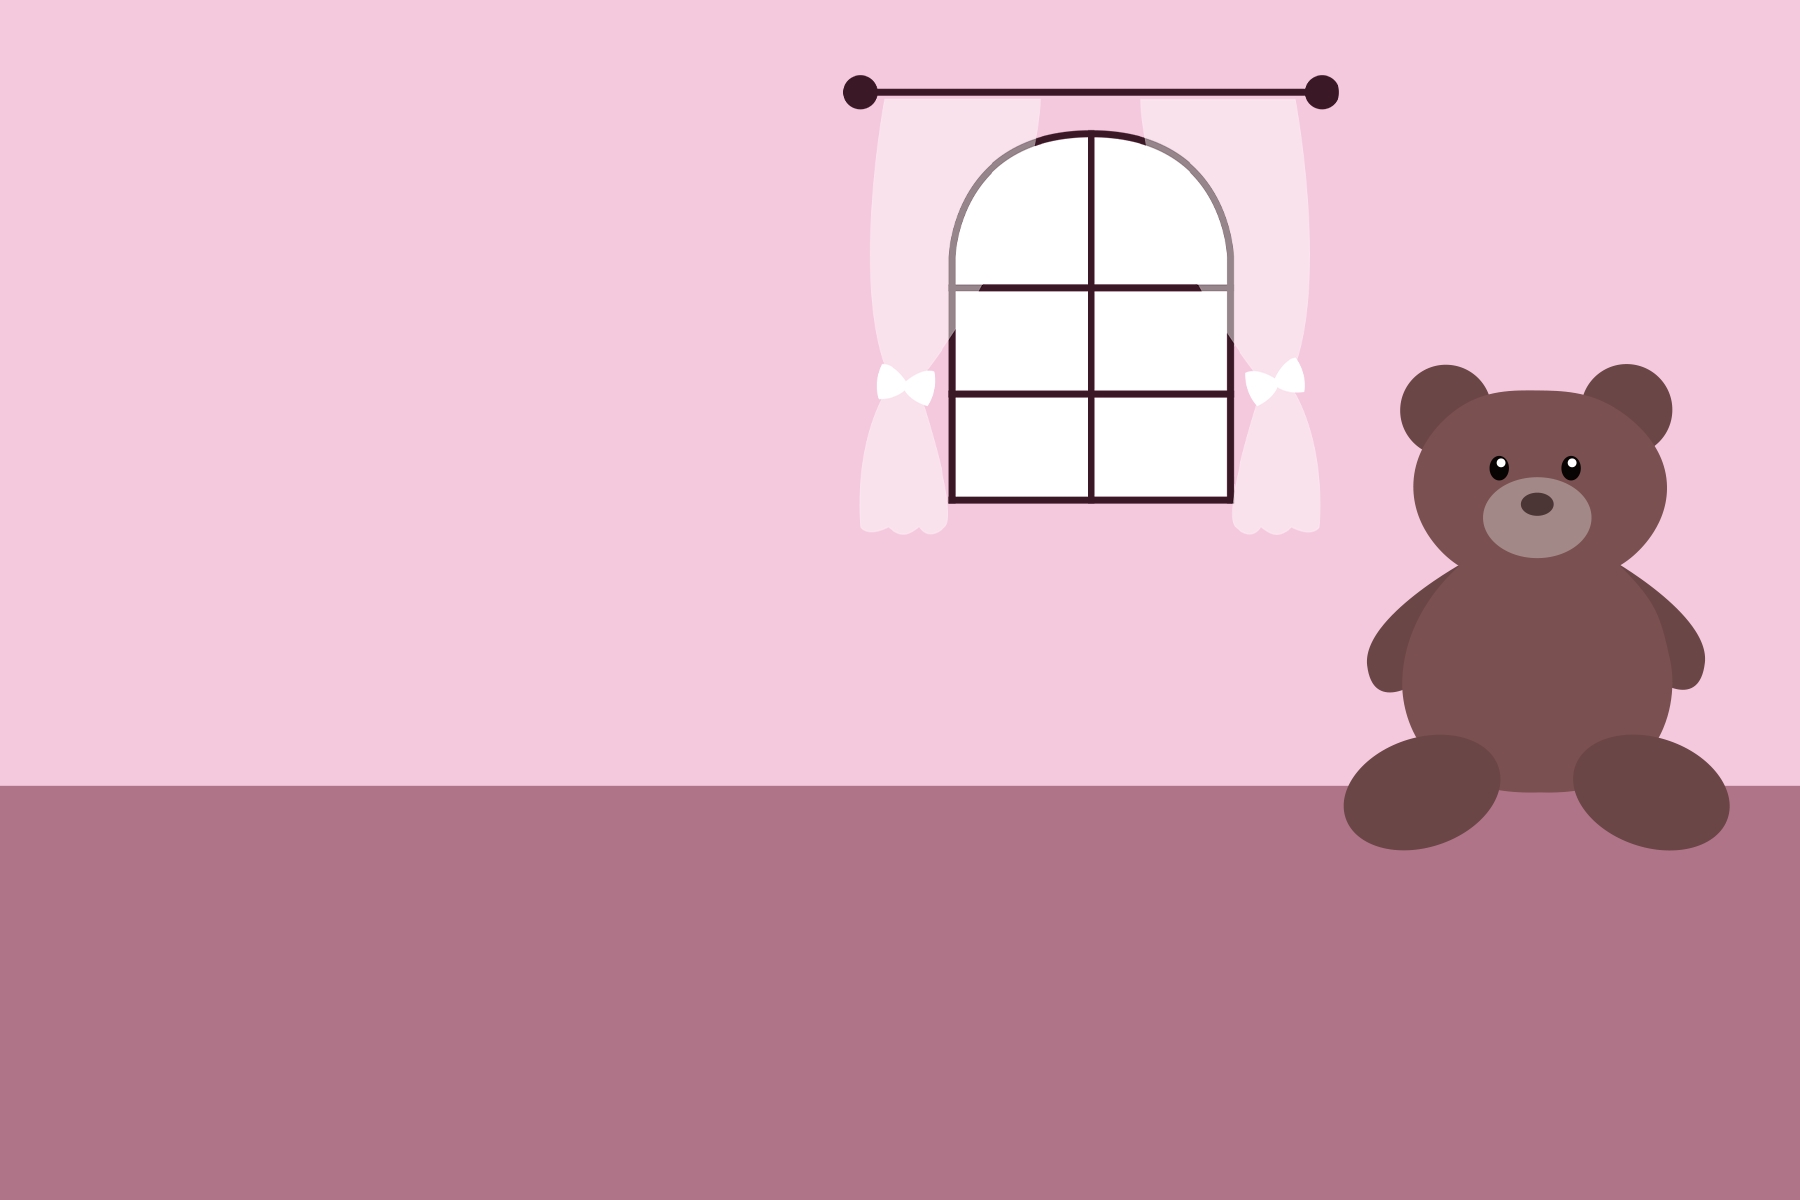
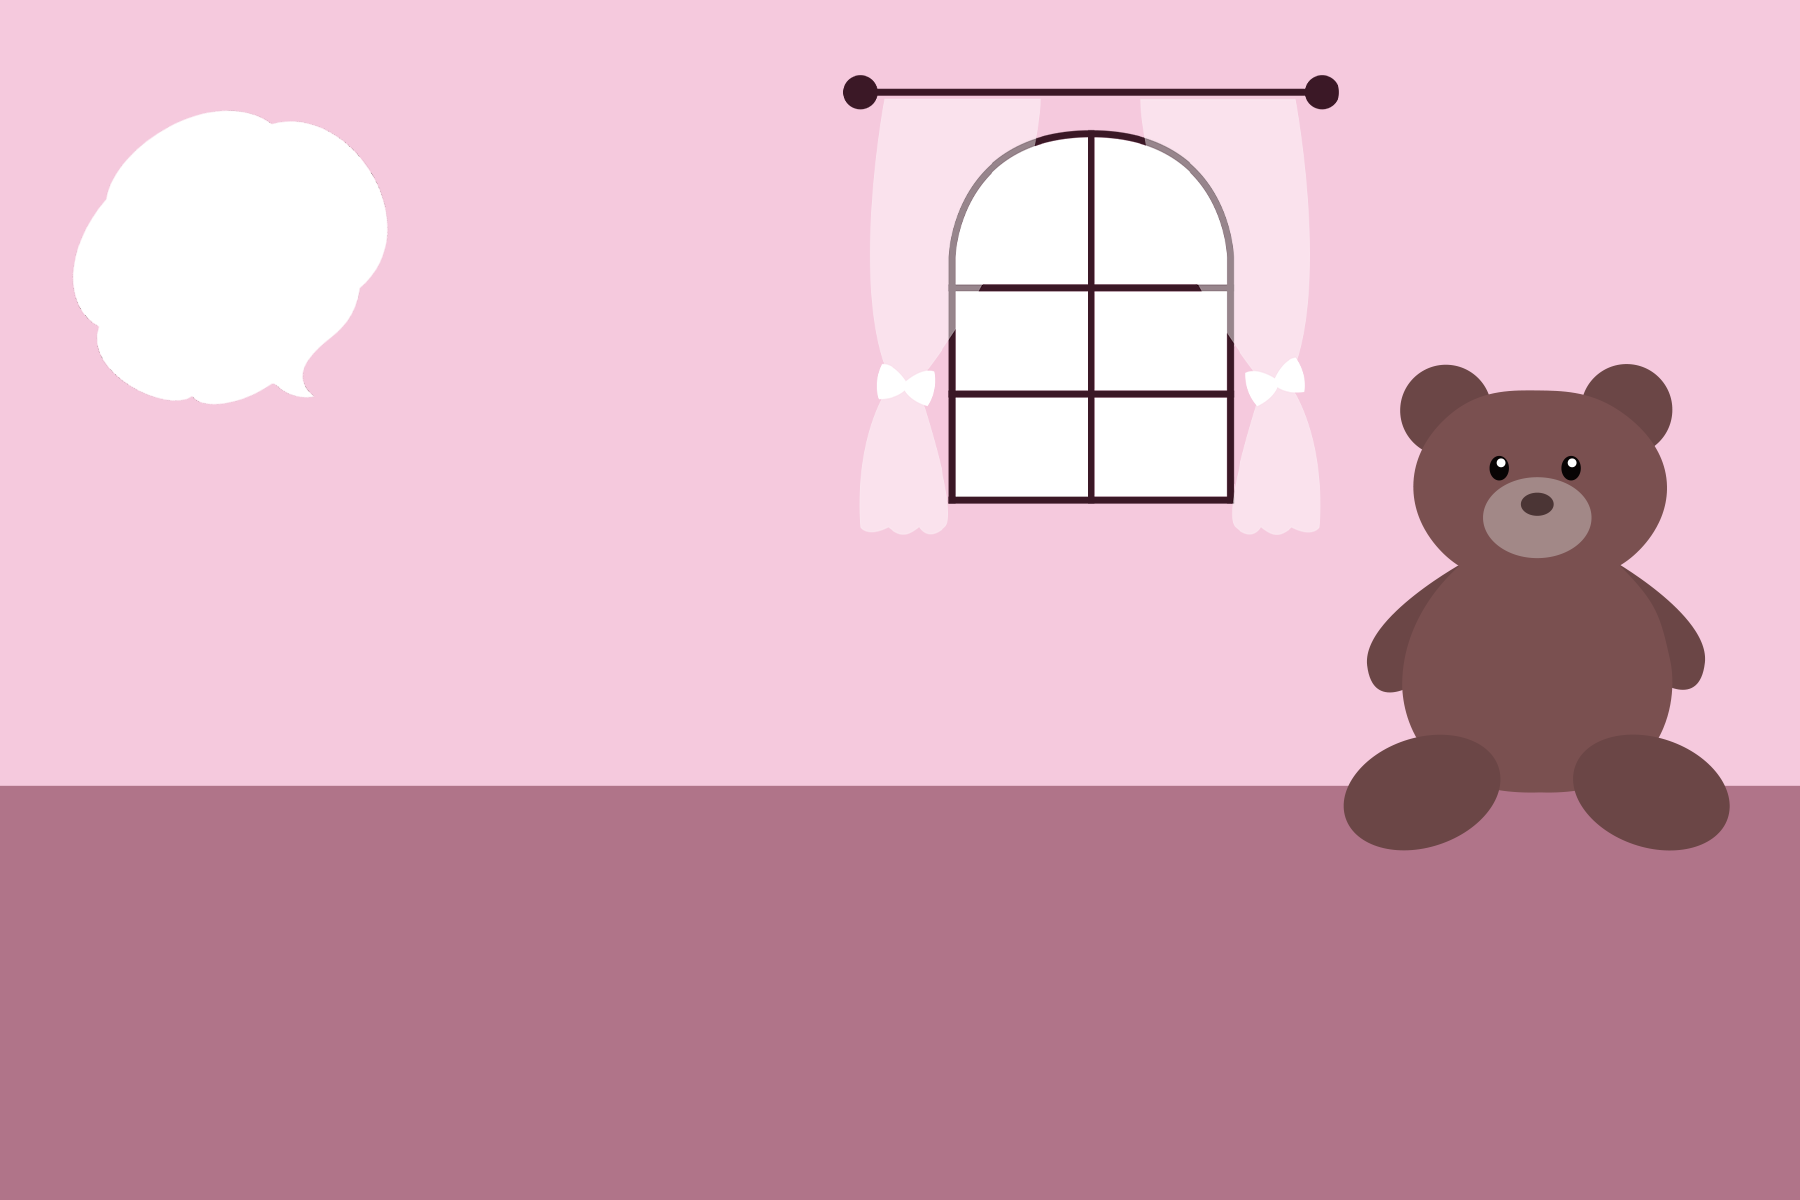
あいすせりふつけた

Changed region(s): [[0.0311, 0.0925, 0.2178, 0.3392]]

diff --git a/components/Serihu.vue b/components/Serihu.vue
@@ -10,13 +10,25 @@ import { mapActions, mapState } from 'vuex'
 export default {
     computed: {
         SERIHU() {
-            let main = this.weatherItem && this.weatherItem.weather[0].main
-            if(main === 'Clear') {
-                return '晴れだね'
-            } else if(main === 'Rain') {
-                return '雨だね'
+            let temp = Math.floor(this.weatherItem && this.weatherItem.main.temp)
+            if(temp > 35) {
+                return 'かき氷食べいこうね'
+            } else if(temp  > 30) {
+                return 'ガリガリ君梨味しか'
+            } else　if(temp  > 25) {
+                return 'そろそろチョコミントだね'
+            } else if(temp > 20) {
+                return '31ならジャモカコーヒー推し'
+            } else if(temp > 15) {
+                return 'MOWたべよ〜'
+            }　else if(temp > 10) {
+                return 'ちょこもなかじゃ〜んぼ'
+            } else if(temp > 5) {
+                return 'やわもちのミルクアイスがすき'
+            } else if(temp > 0) {
+                return 'いい加減ハーゲンダッツじゃん'
             } else {
-                return 'その他だね'
+                return 'お外でアイスつくろう！'
             }
         },
         ...mapState({
@@ -38,21 +50,13 @@ export default {
 <style>
     .serihu {
         position: absolute;
-        top: 10%;
-        left: 8%;
-        width: 92%;
-        height: 90%;
-        &::before {
-            content: "";
-            background:url(../assets/hukidashi.png) no-repeat;
-            display: inline-block;
-            top: -6%;
-            left: -5%;
-            width: 20%;
-            height: calc(100%*250/898);
-            position: absolute;
-            background-size:contain;
-        }
+        text-align: justify;
+        color: #3e1b28;
+        font-family: 'M PLUS 1p', sans-serif;
+        top: 15.5%;
+        left: 7%;
+        width: 11%;
+        font-size: 2vw;
     }
 
 </style>
